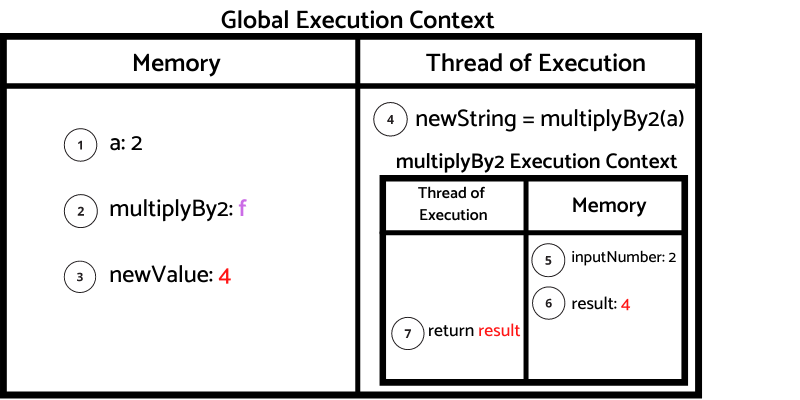
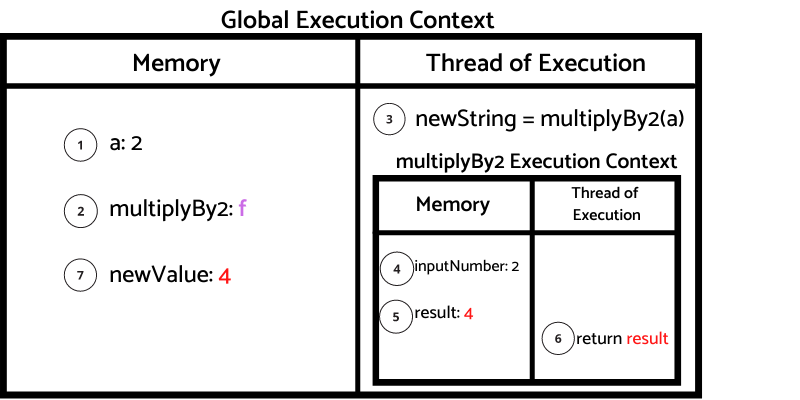
fix: added fixes for blogpost

diff --git a/content/how-javascript-works-basically/index.md b/content/how-javascript-works-basically/index.md
@@ -76,14 +76,14 @@ Last, we assigning the result of running the function to the `const newValue`.
 
 
 ```javascript
-const a = 2
-
-function multiplyBy2(inputNumber) {
-    const result = inputNumber * 2;
-    return result;
-}
-
-const newValue = multiplyBy2(a)
+1: const a = 2
+2:
+3: function multiplyBy2(inputNumber) {
+4:    const result = inputNumber * 2;
+5:    return result;
+6: }
+7:
+8: const newValue = multiplyBy2(a)
 ```
 
 This diagram is going to guide us step by step on what going on under the hood when JS is executing the code.
@@ -95,23 +95,22 @@ Remember, JS executes the code line by line, and that's what we are going to do!
 
 <br/>
 
-<b>Step 1</b>: Starting with the first line, Identifier `'a'` is store in memory with the value `2` and the Call Stack gets initialize with Global().
+<b>Step 1</b>: At line 1, identifier `'a'` is store in memory with the value `2`.
 
-<b>Step 2</b>: Identifier `multiplyBy2` is store on memory with the function f. We are defining the function, not invoking it yet.
+<b>Step 2</b>: At line 3, identifier `multiplyBy2` is store on memory with the function f. We are defining the function, not invoking it yet.
 
-<b>Step 3</b>: Identifier `newValue` is store on memory with no value until Step 7 (forget there is a red 4 in there for now please).
+<b>Step 3</b>: At line 8, `multiplyBy2(a)` is now invoked, and is going to
+create a new execution context, `multiplyBy2(a)` also gets added to the call stack and it takes priority to get executed.
 
-<b>Step 4</b>: `multiplyBy2(a)` is now invoked, and is going to
-create a <b>new Execution Context</b>. 
-Also `multiplyBy2(a)` gets added to the Call Stack and it takes priority to get executed.
+Note: Identifier `newValue` is store not in memory until `multiplyBy2(a)` is resolved.
 
-<b>Step 5</b>: Now we are inside the multiplyBy2 Execution Context. The parameter `inputNumber` is assigned the argument `a` stored on global memory.
+<b>Step 4</b>: Now we are inside the multiplyBy2 Execution Context. The parameter `inputNumber` is assigned the argument `a` stored on global memory.
 
-<b>Step 6</b>: The identifier `result` is stored in memory with no value until `inputNumber * 2` is evaluated, then the value 4 is assigned to it.
+<b>Step 5</b>: The identifier `result` is not stored in memory until `inputNumber * 2` is evaluated, then the value 4 is assigned to it.
 
-<b>Step 7</b>: When `result` is returned, the execution context looks on the local memory for the result value (result: 4). Then the evaluation of newValue is resolve with the value 4. The use of return in a function indicates that the thread of execution of the function is done and can be removed from the call stack.
+<b>Step 6</b>: When `result` is returned, the execution context looks on the local memory for the result value (result: 4). Then the evaluation of newValue is resolve with the value 4. The use of return in a function indicates that the thread of execution of the function is done and can be removed from the call stack.
 
-<b>Step 8</b>: The End
+<b>Step 7</b>: Identifier `newValue` is store in memory with the value of 4.    
 
 ## Conclusion
 

diff --git a/content/how-javascript-works-closure/index.md b/content/how-javascript-works-closure/index.md
@@ -10,9 +10,9 @@ featuredImage: './images/how-JS-works-closure.png'
 
 Continuing to improve my understanding of JS, I want to take a look at how closure works.
 
-I think not many junior/mid-level developers understand the concept of closure.
+I think many junior/mid-level developers don't understand fully the concept of closure.
 
-I want to create on this post a reference for it, so whenever you want to refresh what was closure about, you can check it!
+I want to create a reference on this post, so whenever you want to refresh what was closure about, you can check it!
 
 This is part of my How JS works series, to understand this post, I recommend you first read [Part 1](https://danielgg.com/how-javascript-works-basically/) if you haven't done it.
 
@@ -58,11 +58,11 @@ Remember, JS executes the code line by line, and that's what we are going to do!
 
 This function `wow()` goes on top of the call stack and it creates a brand new execution context.
 
-In wow execution context, we first create an identifier `score` with the value `5` and an identifier `duplicateNumber` with the function f as value. 
+In wow's execution context, we first create an identifier `score` with the value `5` and an identifier `duplicateNumber` with the function f as value. 
 
 ![Execution Context!](images/closure2.png)
 
-JS then jumps to the thread of execution and returns `duplicateNumber`. On the local memory of wow execution context, JS find `duplicateNumber`, identifier `example` gets created with the function f as value. 
+JS then jumps to the thread of execution and returns `duplicateNumber`. On the local memory of wow's execution context, JS find `duplicateNumber`, identifier `example` gets created with the function f as value. 
 
 The execution context for `wow()` gets deleted and JS pop out `wow()` from the call stack.
 
